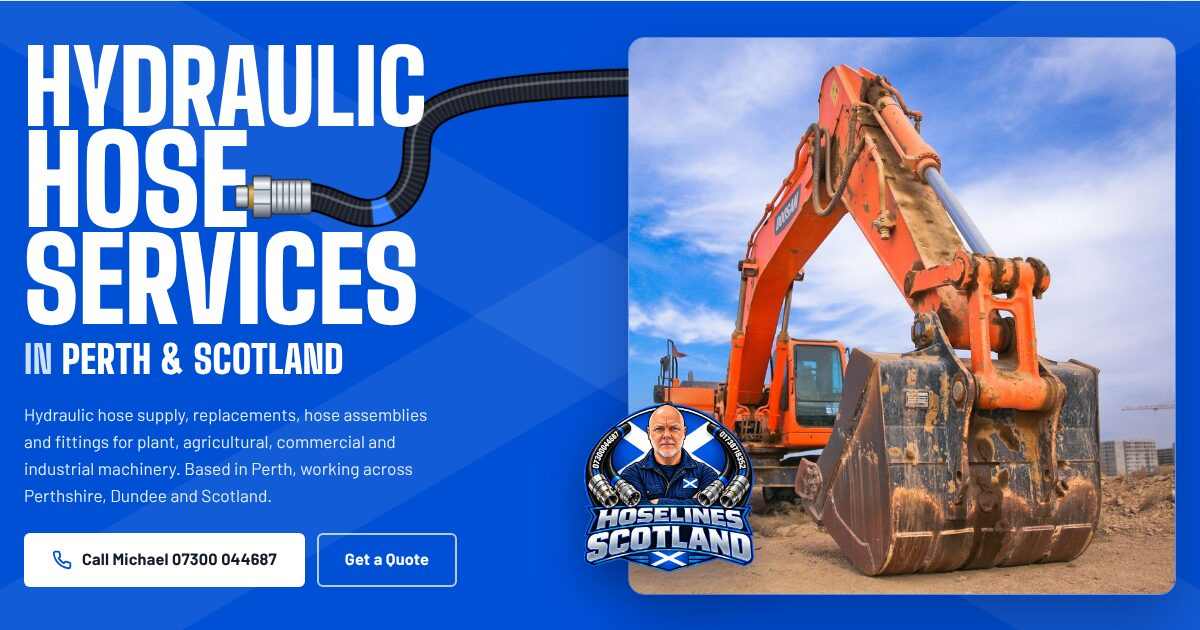
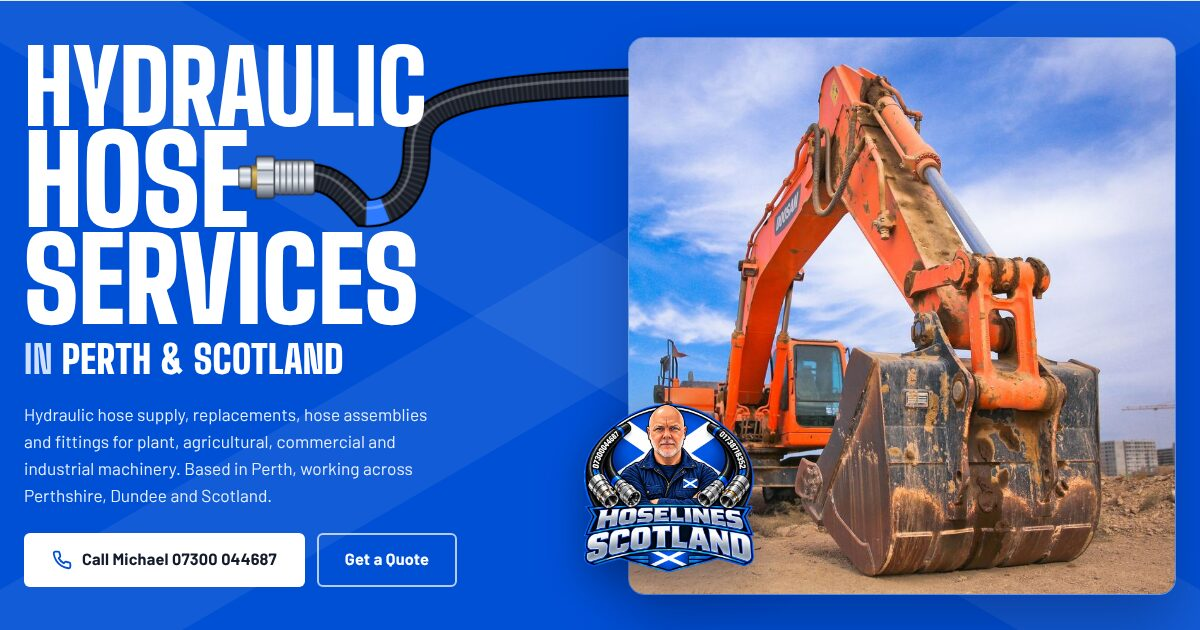
Hoselines Scotland A: hose fitting meets the middle bar of the E in HOSE

Changed region(s): [[0.185, 0.2413, 0.3392, 0.3619]]

diff --git a/hoselines-scotland/index.html b/hoselines-scotland/index.html
@@ -339,7 +339,7 @@ footer a:hover{color:#fff}
         <svg class="hose" viewBox="0 0 100 100" aria-hidden="true" focusable="false">
           <defs>
             <mask id="hoseMask" maskUnits="userSpaceOnUse" x="-20" y="-20" width="220" height="140">
-              <path class="mask-path" d="M170 9 C104 9 97 15 97 26 C97 37 91 42 84 41.5 C79 41 75 37.5 70 37.5" pathLength="100" fill="none" stroke="#fff" stroke-width="12" stroke-linecap="round"/>
+              <path class="mask-path" d="M170 9 C104 9 97 15 97 26 C97 37 91 42 84 41.5 C80 37 76.5 32.7 70.8 32.7" pathLength="100" fill="none" stroke="#fff" stroke-width="12" stroke-linecap="round"/>
             </mask>
             <linearGradient id="chrome" x1="0" y1="0" x2="0" y2="1">
               <stop offset="0" stop-color="#5b6472"/><stop offset=".18" stop-color="#f5f7fa"/><stop offset=".42" stop-color="#b9c1cc"/><stop offset=".6" stop-color="#eef1f5"/><stop offset="1" stop-color="#4b5361"/>
@@ -349,15 +349,15 @@ footer a:hover{color:#fff}
             </linearGradient>
           </defs>
           <g mask="url(#hoseMask)" fill="none" stroke-linecap="butt">
-            <path d="M170 9 C104 9 97 15 97 26 C97 37 91 42 84 41.5 C79 41 75 37.5 70 37.5" stroke="#000" stroke-width="7"/>
-            <path d="M170 9 C104 9 97 15 97 26 C97 37 91 42 84 41.5 C79 41 75 37.5 70 37.5" stroke="#1a1e27" stroke-width="5.9"/>
-            <path d="M170 9 C104 9 97 15 97 26 C97 37 91 42 84 41.5 C79 41 75 37.5 70 37.5" stroke="#2c323e" stroke-width="5.9" stroke-dasharray=".5 .8"/>
-            <path d="M170 9 C104 9 97 15 97 26 C97 37 91 42 84 41.5 C79 41 75 37.5 70 37.5" stroke="#2f7bff" stroke-width="6" pathLength="100" stroke-dasharray="0 82 4 100"/>
-            <path d="M170 7.9 C104 7.9 95.9 14 95.9 26 C95.9 36 90.5 40.6 84 40.3 C79 40 75 36.4 70 36.4" stroke="rgba(255,255,255,.28)" stroke-width=".7"/>
-            <path class="pulse" d="M170 9 C104 9 97 15 97 26 C97 37 91 42 84 41.5 C79 41 75 37.5 70 37.5" stroke="#8fbcff" stroke-width="2.4" pathLength="100" stroke-linecap="round"/>
+            <path d="M170 9 C104 9 97 15 97 26 C97 37 91 42 84 41.5 C80 37 76.5 32.7 70.8 32.7" stroke="#000" stroke-width="7"/>
+            <path d="M170 9 C104 9 97 15 97 26 C97 37 91 42 84 41.5 C80 37 76.5 32.7 70.8 32.7" stroke="#1a1e27" stroke-width="5.9"/>
+            <path d="M170 9 C104 9 97 15 97 26 C97 37 91 42 84 41.5 C80 37 76.5 32.7 70.8 32.7" stroke="#2c323e" stroke-width="5.9" stroke-dasharray=".5 .8"/>
+            <path d="M170 9 C104 9 97 15 97 26 C97 37 91 42 84 41.5 C80 37 76.5 32.7 70.8 32.7" stroke="#2f7bff" stroke-width="6" pathLength="100" stroke-dasharray="0 82 4 100"/>
+            <path d="M170 7.9 C104 7.9 95.9 14 95.9 26 C95.9 36 90.5 40.6 84 40.3 C80 36 76.5 31.6 70.8 31.6" stroke="rgba(255,255,255,.28)" stroke-width=".7"/>
+            <path class="pulse" d="M170 9 C104 9 97 15 97 26 C97 37 91 42 84 41.5 C80 37 76.5 32.7 70.8 32.7" stroke="#8fbcff" stroke-width="2.4" pathLength="100" stroke-linecap="round"/>
           </g>
           <g class="fit">
-            <g transform="translate(70 37.5) scale(1.18)">
+            <g transform="translate(70.8 32.7) scale(1.18)">
               <rect x="-7.6" y="-3.6" width="8.4" height="7.2" rx=".7" fill="url(#chrome)" stroke="#2b3038" stroke-width=".25"/>
               <path d="M-6.4 -3.6v7.2M-5.1 -3.6v7.2M-3.8 -3.6v7.2M-2.5 -3.6v7.2M-1.2 -3.6v7.2" stroke="#59616e" stroke-width=".28"/>
               <rect x="-11.4" y="-4.4" width="3.8" height="8.8" rx=".4" fill="url(#chrome)" stroke="#2b3038" stroke-width=".25"/>
